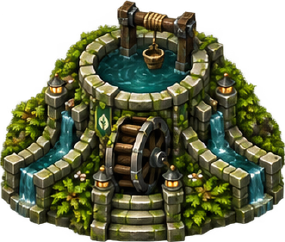
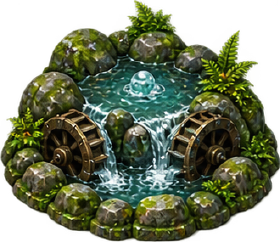
Repaint Well as a spring that becomes a waterfall
Fifth dual redone under the name rule. A mossy well head becomes a clear teal spring welling
up between wet boulders and finally a broad low waterfall, with a dark timber wheel turning in
the outflow. Anchors 49.5-52.4%, every tier wider than tall at 1.06-1.31, cut in one pass.

The old Well was a spring-HOUSE, with roofs and walls and a lit archway, because it was
written to the five-beat template. Its own name ladder had been pointing somewhere else the
whole time: Well, Spring, Waterfall is a route from a dug hole to a natural feature and there
is no building anywhere on it. The board gains a second waterfall as a result, which is a gain
rather than a collision -- the map already has one on its left edge, so the tower looks native.

Clay went into the prompt as the do-not-resemble sheet, since both towers are a pool in a
ring: opaque ochre mud in cut stone and timber against clear teal water over natural wet rock.
And a tier-5 waterfall has to be asked for as a WEIR, wider than it is high, or the name walks
the set straight into a tall cascade and out of the proportion rule.

The water wheel survived the repaint. Nothing in the code reads it, but it is the only visual
the attack-speed aura has, and a turning wheel says haste more plainly than any glow would.

diff --git a/godottowerdefense/docs/tower-art-prompt.md b/godottowerdefense/docs/tower-art-prompt.md
@@ -12,7 +12,7 @@ shared fortress language, and every fusion now takes its shape from ITS OWN NAME
 
 EVERY tower in the game is painted: a `--fill-board` run reports `art*` on all fifteen rows.
 Painted under the NEW name rule: Dinosaur, Steam, Lava, Rainbow, Infernal, Flesh Golem, Pure,
-Clay, Sun. Still on the OLD fusion recipe and queued to be redone as their own names: Well,
+Clay, Sun, Well. Still on the OLD fusion recipe and queued to be redone as its own name:
 Roots.
 
 The pipeline around it is in [CLAUDE.md](../../CLAUDE.md) ("Painted tower set"); this file is
@@ -346,6 +346,27 @@ towers that would otherwise converge.
 The gold trap held the way it always has to: aged bronze over most of the disc, dark slate in
 the cradle, ivy on the terraces, and gold only as a thin edge on the relief plus the glow in
 the cut channels. And no flame anywhere, which is what keeps it apart from Fire.
+
+### What Well measured, repainted as a spring
+
+Anchors 49.5-52.4%, every tier wider than tall at 1.06-1.31, cut in one pass. A mossy well
+head that becomes a clear teal spring welling between wet boulders and finally a broad low
+waterfall, with a dark timber wheel turning in the outflow.
+
+The old Well was a spring-HOUSE — roofs, walls, a lit archway — because it was written to the
+five-beat template. Its name ladder was pointing somewhere else the whole time: Well, Spring,
+Waterfall is a route from a dug hole to a natural feature, and there is no building anywhere
+on it. The repaint follows the ladder and the board gains its second waterfall, which is a
+good thing rather than a collision: the map already has one on its left edge, so the tower
+looks native to it.
+
+Clay went into the prompt as the do-not-resemble sheet, since both towers are a pool in a
+ring: opaque ochre mud in cut stone and timber against clear teal water over natural wet
+rock. **A tier-5 waterfall also has to be asked for as a WEIR** — wider than it is high —
+or the name walks the set straight into a tall cascade and the proportion rule.
+
+The water wheel survived the repaint. Nothing in the code reads it, but it is the only visual
+the attack-speed aura has, and a turning wheel says haste more plainly than any amount of glow.
 
 ### A cutter bug this sheet found
 
